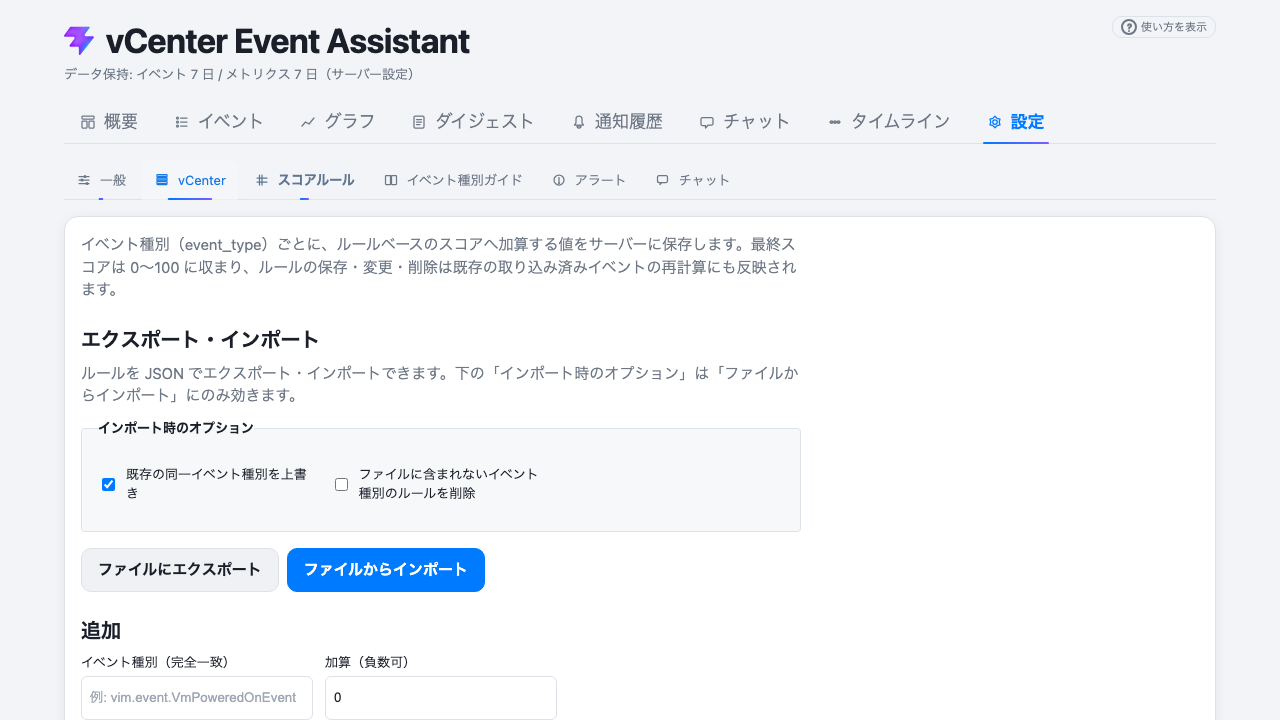
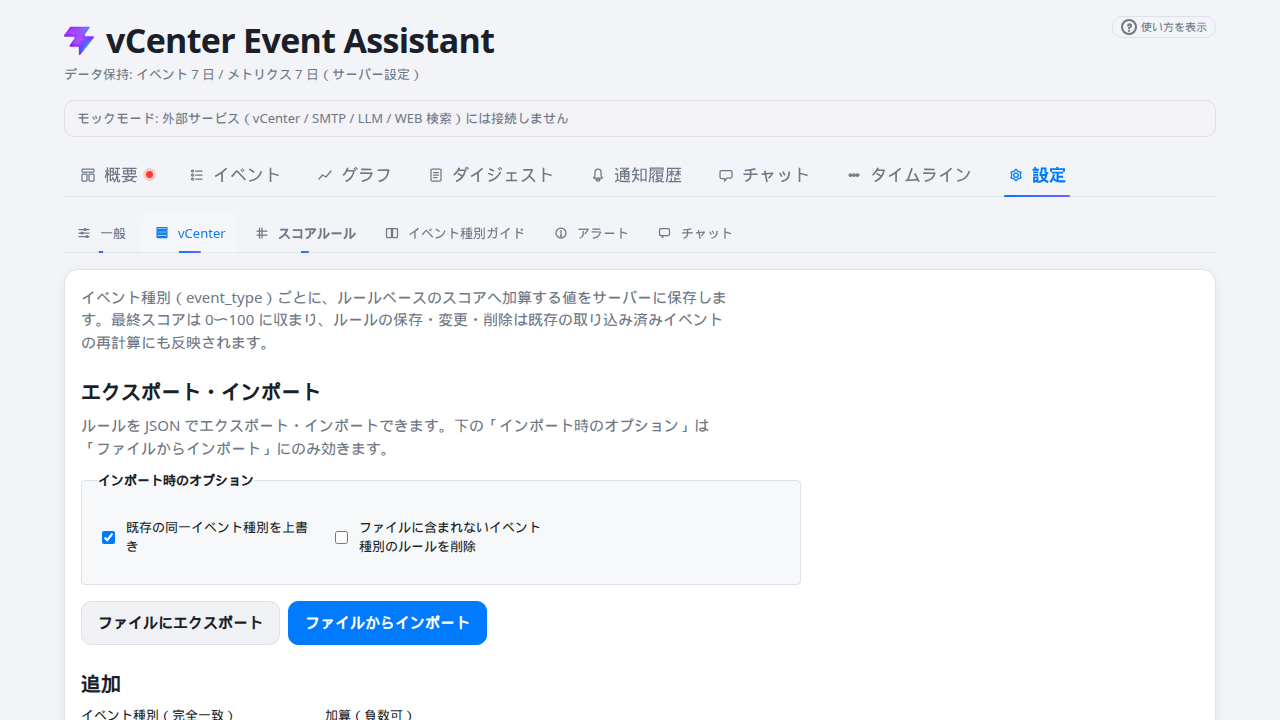
docs: add mock-mode screenshots to getting-started
Refresh docs/images from a MOCK_MODE=1 server and embed key
captures in the local start and mock-mode sections.

diff --git a/docs/getting-started.md b/docs/getting-started.md
@@ -90,7 +90,9 @@ UI と API は `http://localhost:8000`（動作確認は `http://localhost:8000/
 (cd frontend; npm run build); uv run uvicorn vcenter_event_assistant.main:create_app --factory --host 0.0.0.0 --port 8000
 
 ```
-4. ブラウザで `http://localhost:8000` を開く。
+4. ブラウザで `http://localhost:8000` を開く。起動に成功すると概要タブが表示されます（下図は `MOCK_MODE=1` で取得した例。ヘッダ下にモックバナーが出ます）。
+
+![起動後の概要タブ](images/summary.png)
 
 ### 開発用途（フロントエンドの改修・HMR）（Vite 開発サーバー）
 
@@ -110,7 +112,13 @@ uv run uvicorn vcenter_event_assistant.main:create_app --factory --host 0.0.0.0 
 cd frontend && npm install && npm run dev
 ```
 
-**ブラウザ**: 既定では `http://localhost:5173`（Vite が表示する URL でもよい）。`/api` と `/health` は開発サーバーが `http://127.0.0.1:8000` にプロキシする。フロントの npm スクリプト一覧は [docs/frontend.md](docs/frontend.md) を参照する。
+**ブラウザ**: 既定では `http://localhost:5173`（Vite が表示する URL でもよい）。`/api` と `/health` は開発サーバーが `http://127.0.0.1:8000` にプロキシする。フロントの npm スクリプト一覧は [frontend.md](frontend.md) を参照する。
+
+### 起動後の主な画面例
+
+下図は `MOCK_MODE=1`（デモ用 DB）で起動したときのキャプチャです。タブごとの説明と追加の画面例は [frontend.md](frontend.md) を参照してください。
+
+![グラフタブ](images/metrics.png)
 
 ### モックモード（外部サービスなしのデモ・開発）
 
@@ -125,6 +133,12 @@ DATABASE_URL=sqlite+aiosqlite:///./data/vea.dev.db
 
 uv run vcenter-event-assistant
 ```
+
+起動に成功するとヘッダ付近にモックバナーが表示され、シード済みのデモイベントや登録済みの `mock-demo-vc` を確認できます。
+
+![モックモード時のイベントタブ](images/events.png)
+
+![モックモード時の vCenter 設定](images/settings-vcenters.png)
 
 実装詳細は [development.md](development.md#モックモードmock_mode1) を参照してください。
 
